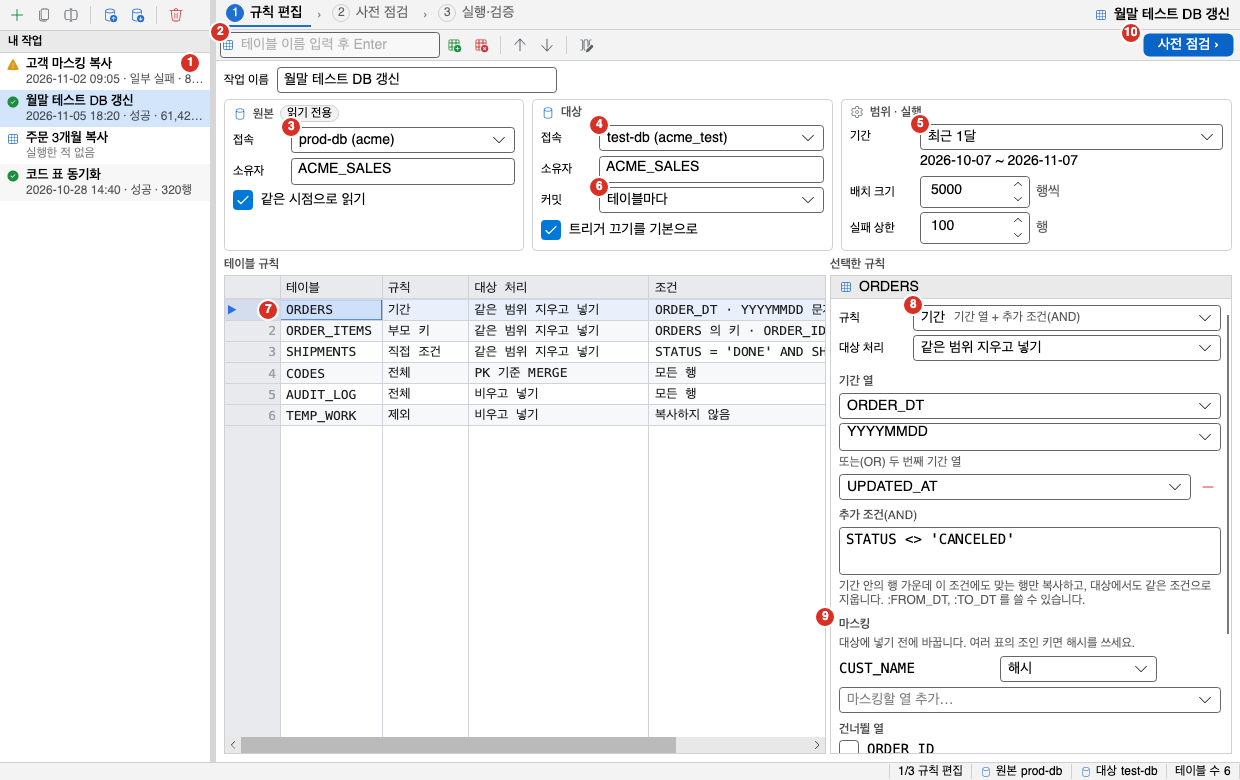
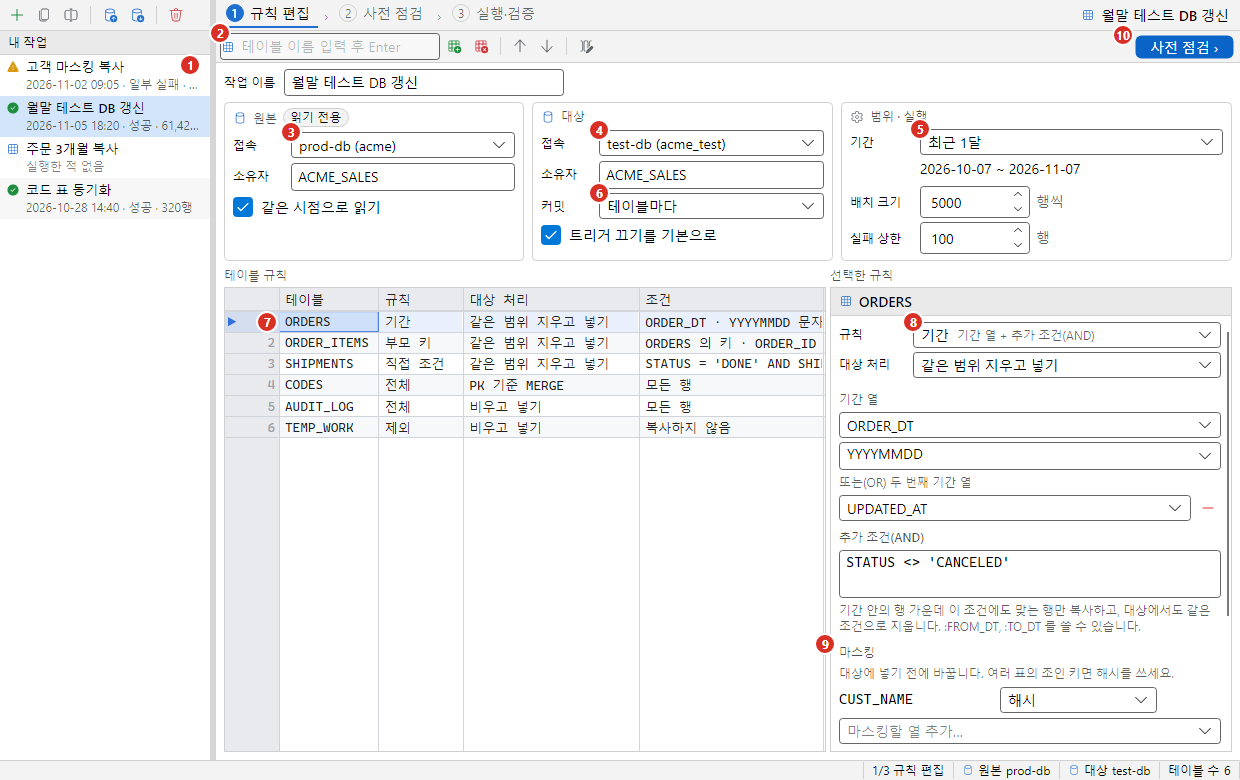
fix(copy-ui): fit the last grid column to the remaining width
The last column kept its natural width when that was wider than the room
left, so a condition a few pixels too long (e.g. a parent key condition
after duplicating a job) added a horizontal scroll bar. Fit the last
column to the remaining width whenever that is at least 120px, and only
fall back to the natural width when earlier columns leave less room.
Render tests now require the column widths to match the grid width.

Claude-Session: https://claude.ai/code/session_01M9hnLWJzPwtL7LMdmexJPM

diff --git a/tests/Oranda.App.Tests/Features/DataCopy/DataCopyRenderTests.cs b/tests/Oranda.App.Tests/Features/DataCopy/DataCopyRenderTests.cs
@@ -193,12 +193,66 @@ public sealed class DataCopyRenderTests : IDisposable
         }
     }
 
-    // 마지막 열이 남은 폭을 채워 그리드 오른쪽에 빈 끝 칸이 남지 않는다.
-    private static void AssertFillsWidth(MonitorGrid grid)
+    // 마지막 열이 남은 폭에 맞아 그리드 오른쪽에 빈 끝 칸도, 가로 스크롤도 생기지 않는다(열 폭 합 ≈ 그리드 폭, ±2).
+    // 앞 열들이 넓어 마지막 열 자리가 최소값(GridColumnFit 의 120)보다 좁을 때만 가로 스크롤을 허용하고, 그때도 빈 끝 칸은 없어야 한다.
+    // 반환: 남은 폭에 맞추는 경우(엄격 검사)였는가.
+    private static bool AssertFillsWidth(MonitorGrid grid)
     {
         var c = grid.GridControl;
-        Assert.True(c.ExtentWidth >= c.ViewportWidth - 2, $"그리드 폭 {c.ViewportWidth} 에 열 폭 합 {c.ExtentWidth}");
+        var m = grid.Model!;
+        var others = c.ExtentWidth - c.RowHeaderWidth - m.GetColumnWidth(m.VisibleColumns[^1]);
+        var room = c.ViewportWidth - c.RowHeaderWidth - others - 1;
+        var widths = string.Join(", ", m.VisibleColumns.Select(i => $"{m.Columns[i].Name}={m.GetColumnWidth(i)}"));
+        if (room >= 120)
+        {
+            Assert.True(Math.Abs(c.ExtentWidth - c.ViewportWidth) <= 2, $"{grid.Name}: 그리드 폭 {c.ViewportWidth} 에 열 폭 합 {c.ExtentWidth} ({widths})");
+            return true;
+        }
+
+        Assert.True(c.ExtentWidth >= c.ViewportWidth - 2, $"{grid.Name}: 그리드 폭 {c.ViewportWidth} 에 열 폭 합 {c.ExtentWidth} ({widths})");
+        return false;
     }
+
+    [Fact]
+    public Task Rule_grid_fits_width_after_duplicating_a_job() => HeadlessHost.Run(async () =>
+    {
+        // 복제·새 작업처럼 열 정보 없이 다른 작업을 열어 규칙 표를 비우고 다시 채운다. 부모 키 조건 글이 남은 폭보다 조금 길어도
+        // 가로 스크롤 없이 마지막 열이 남은 폭에 맞아야 한다.
+        var h = new DataCopyHarness();
+        var (window, vm) = await OpenWindowAsync(h);
+        try
+        {
+            var copy = TestJobs.Job("월말 운영 데이터 복사 복사본", "SRC", "TGT",
+                TestJobs.Rule("ORDER_ITEMS", RuleKind.ParentKey) with
+                {
+                    Parent = new ParentLink("CUSTOMERS", ["CUST_ID"], ["CUST_ID"], "FK_ORDER_ITEMS_CUSTOMERS"),
+                },
+                TestJobs.Rule("ORDERS"),
+                TestJobs.Rule("CODES"));
+            h.Store.Jobs[copy.Id] = copy;
+            await vm.OpenJobAsync(copy);
+            Settle(window);
+
+            var grid = window.FindControl<MonitorGrid>("RuleGrid")!;
+            Assert.Equal(3, grid.Model!.RowCount);
+            AssertFillsWidth(grid);
+
+            // 헤드리스 글꼴은 글자가 넓다: 조건 칸이 값에 필요한 폭(상한 360)보다 남은 폭이 좁고 최소값보다는 넓은 창 폭에서 본다.
+            foreach (var width in new[] { 1500.0, 1600 })
+            {
+                window.Width = width;
+                Settle(window);
+                Assert.True(AssertFillsWidth(grid), $"창 폭 {width}: 마지막 열 자리가 최소값보다 좁아 검사가 느슨해졌습니다");
+                Assert.True(grid.GridControl.MaxOffsetX <= 0, $"창 폭 {width}: 가로 스크롤이 생겼습니다");
+            }
+
+            Shots(window, "1-rules-duplicated");
+        }
+        finally
+        {
+            window.Close();
+        }
+    });
 
     [Fact]
     public Task Rule_edit_step_fits_a_narrow_window() => HeadlessHost.Run(async () =>

diff --git a/src/Oranda.App/Features/DataCopy/GridColumnFit.cs b/src/Oranda.App/Features/DataCopy/GridColumnFit.cs
@@ -9,7 +9,8 @@ namespace Oranda.App.Features.DataCopy;
 /// <list type="bullet">
 /// <item>바인더는 새 결과에 이전 결과의 열 너비를 이어 준다. 그래서 빈 목록이나 첫 값(「대기」, 첫 표)으로 정한 너비가 굳는다.
 /// 결과를 바꿔 끼울 때마다 새 값이 들어가지 않는 열만 넓힌다(줄이지 않으므로 사용자가 넓힌 너비·정렬·필터는 그대로다).</item>
-/// <item>마지막 열(조건·내용·문장·오류·결과)은 남은 폭을 채운다: 열들이 그리드보다 좁으면 늘리고, 넓으면 원래 너비로 둔다.</item>
+/// <item>마지막 열(조건·내용·문장·오류·결과)은 남은 폭에 맞춘다: 남은 폭이 최소값(120) 이상이면 값이 조금 길어도 남은 폭으로 줄이거나 늘려
+/// 가로 스크롤을 만들지 않고, 앞 열들이 넓어 남은 폭이 그보다 좁을 때만 원래 너비로 둔다.</item>
 /// </list>
 /// 너비 계산은 조회 결과 그리드의 자동 크기(<see cref="ResultGridModel.AutoSizeColumns"/>)와 같은 규칙(글자 칸 수 × 글자 폭 + 16, 56~360)을 쓴다.
 /// </summary>
@@ -18,6 +19,7 @@ internal sealed class GridColumnFit
     private const double Padding = 16;
     private const double Min = 56;
     private const double Max = 360;
+    private const double LastMin = 120;
     private const int SampleRows = 200;
 
     private readonly MonitorGrid _grid;
@@ -119,8 +121,11 @@ internal sealed class GridColumnFit
             _natural = width; // 자동 크기·넓히기를 했거나 사용자가 너비를 바꿨다: 그 너비가 새 기준
         }
 
+        // 남은 폭이 최소값 이상이면 마지막 열을 남은 폭에 딱 맞춘다(값이 조금 길어도 가로 스크롤을 만들지 않는다. 긴 글은 상세 칸·복사로 본다).
+        // 앞 열들이 넓어 남은 폭이 그보다 좁을 때만 원래 너비로 두고 가로 스크롤을 쓴다.
         var others = control.ExtentWidth - control.RowHeaderWidth - width;
-        var want = Math.Max(_natural, Math.Floor(control.ViewportWidth - control.RowHeaderWidth - others - 1));
+        var remaining = Math.Floor(control.ViewportWidth - control.RowHeaderWidth - others - 1);
+        var want = remaining >= LastMin ? remaining : _natural;
         if (Math.Abs(want - width) < 0.5)
         {
             _filled = width;
